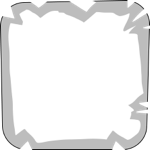
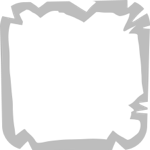
Atualiza a caixinha de dia sq3

diff --git a/sw.js b/sw.js
@@ -1,5 +1,5 @@
 // Rede primeiro (pega atualizações), cache como reserva para funcionar offline.
-const CACHE = 'ciclo-v12';
+const CACHE = 'ciclo-v13';
 const ASSETS = [
   './', 'index.html', 'manifest.json', 'icon-192.png', 'icon-512.png', 'icon-maskable-512.png', 'apple-touch-icon.png',
   'assets/bg.jpg', 'assets/backdrop-mes.png', 'assets/bar.png', 'assets/bar-rose.png', 'assets/tab-calendario.png', 'assets/tab-historico.png', 'assets/tab-backup.png', 'assets/big-square.png', 'assets/big-square-dark.png', 'assets/sq2-dark.png', 'assets/sq1.png', 'assets/sq2.png', 'assets/sq3.png',
